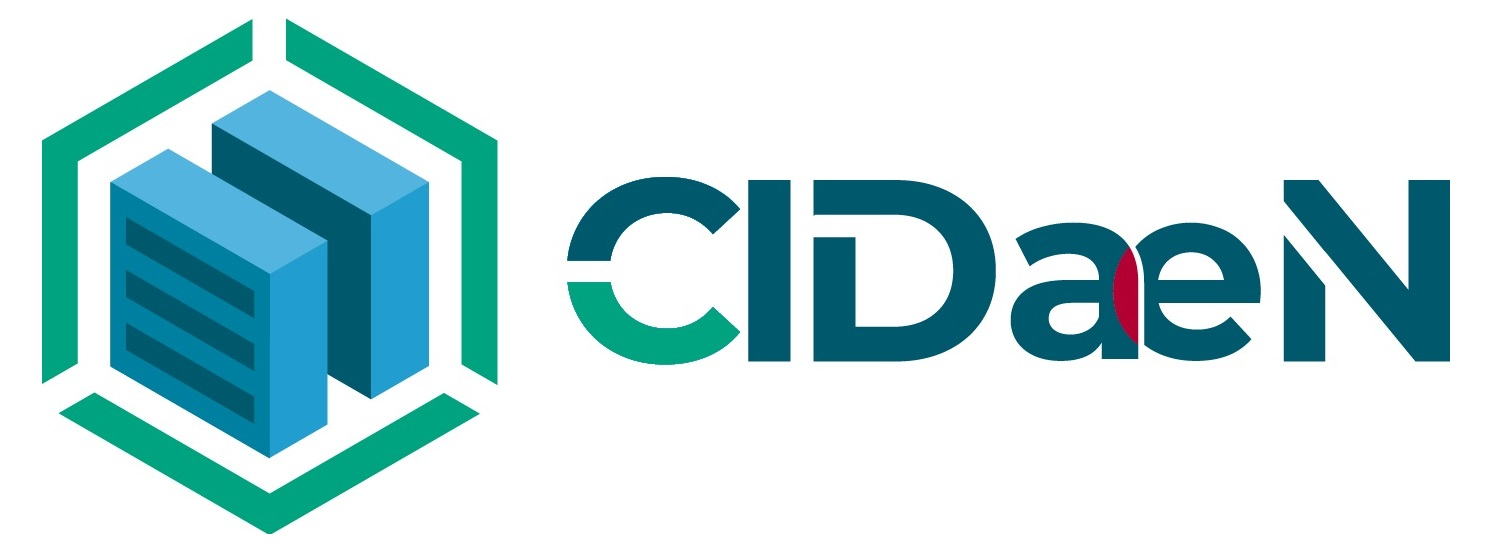
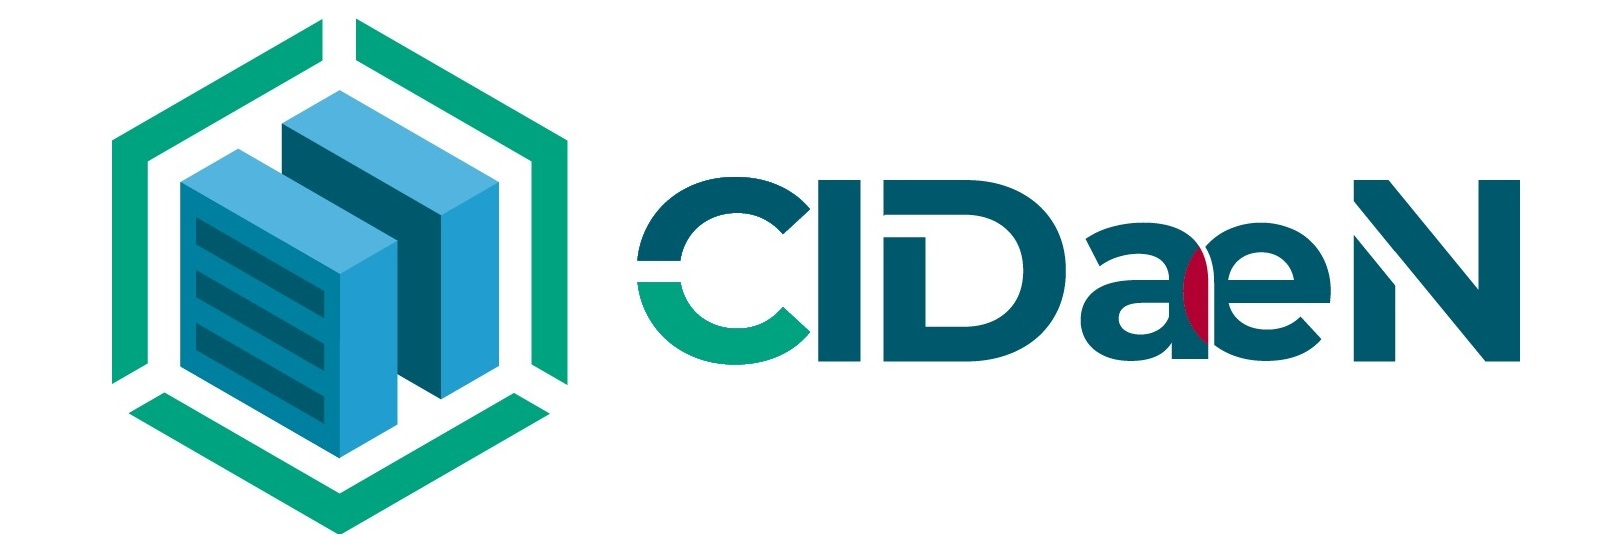
imagen cidaen más grande, cambio titulo tfg

Changed region(s): [[0.0, 0.0304, 0.5535, 0.9714], [0.615, 0.3036, 0.984, 0.6679], [0.615, 0.3339, 0.6457, 0.3643]]

diff --git a/index.html b/index.html
@@ -100,7 +100,7 @@
     <section class="wrapper">
         <section class="column card justify flex">
             <img class="box portrait" src="assets/projects/tfg.jpg" alt="project1">
-            <p class="small-mid padding bold center">Sistema de realidad virtual para la simulación del vuelo de un UAV en robótica asistencial</p>
+            <p class="small-mid padding bold center">Sistema de realidad virtual para la simulación del vuelo de un UAV (vehículo aéreo no tripulado) en robótica asistencial</p>
             <section class="center">
                 <span class="small rounded-full-blue">C#</span>
                 <span class="small rounded-full-blue">Unity</span>
